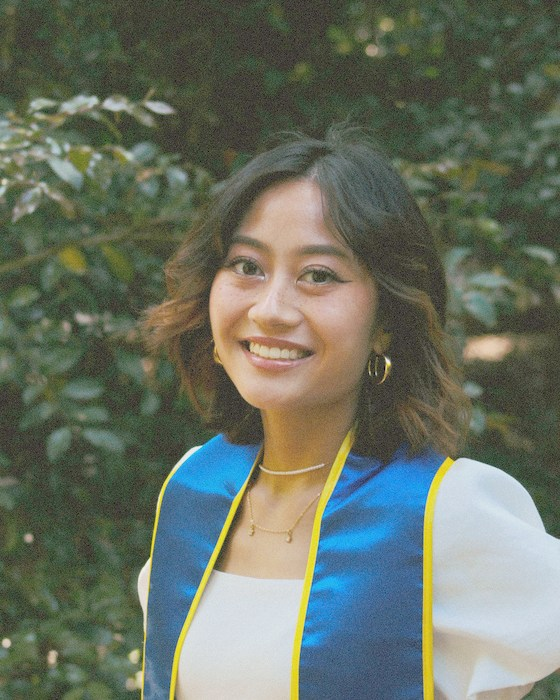
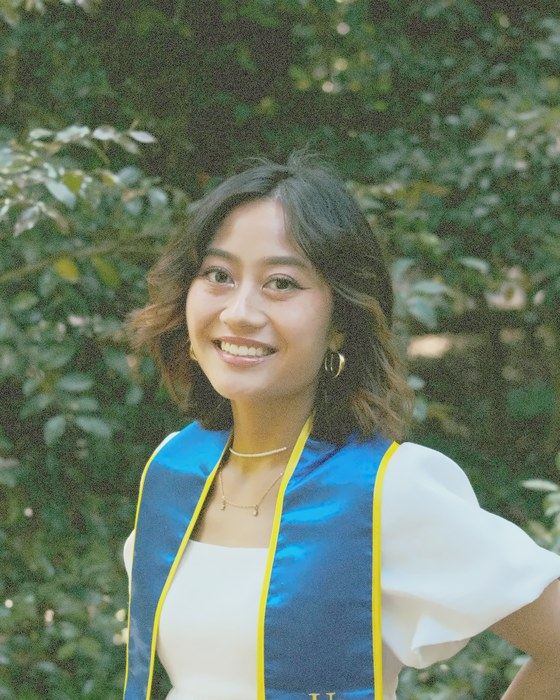
kill /studil/, add /team/

diff --git a/public/styles/site.css b/public/styles/site.css
@@ -561,37 +561,63 @@ a:hover { color: var(--firewood); }
 }
 
 /* --- Footer ---------------------------------------------------------------- */
-.site-footer { background: var(--ink); color: var(--warm-peach); padding-block: var(--s-8) var(--s-6); }
-.site-footer__grid { display: grid; gap: var(--s-7); grid-template-columns: repeat(auto-fit, minmax(min(100%, 15rem), 1fr)); }
-.site-footer__logo img { width: 160px; height: auto; }
-.site-footer h2 { font-family: var(--font-label); font-size: var(--fs-label); font-weight: 700; text-transform: uppercase; letter-spacing: 0.16em; color: var(--golden-ember); margin-bottom: var(--s-3); }
-.site-footer ul { list-style: none; padding: 0; }
-.site-footer li + li { margin-top: var(--s-2); }
-.site-footer a:not(.btn) { color: var(--warm-peach); text-decoration: none; }
-.site-footer a:not(.btn):hover { color: var(--golden-ember); text-decoration: underline; }
+/* --- Footer -----------------------------------------------------------------
+   One type size for every link, one colour, one accent (the small gold column
+   headings), and a single call to action. The previous version stacked three
+   full-width buttons and mixed four text sizes, which read as noise at tablet
+   width and worse on a phone.
+   -------------------------------------------------------------------------- */
+.site-footer { background: var(--ink); color: var(--peach-dim); padding-block: var(--s-8) var(--s-6); }
 
-/* Three written calls to action in priority order, then everything else as
-   icons. Replaces a column of nine identical text links. */
-.follow-ctas { display: grid; gap: var(--s-3); }
-.follow-ctas .btn { width: 100%; }
-.social-icons { display: flex; flex-wrap: wrap; gap: var(--s-2); margin-top: var(--s-5); list-style: none; padding: 0; }
-.social-icons li + li { margin-top: 0; }
-.social-icons a {
-  display: grid; place-items: center; width: 44px; height: 44px;
-  border-radius: var(--r-pill); border: 1px solid var(--ash-hi);
-  color: var(--warm-peach);
-  transition: background-color var(--dur) var(--ease), color var(--dur) var(--ease), border-color var(--dur) var(--ease);
+.site-footer__grid {
+  display: grid; gap: var(--s-7) var(--s-6);
+  grid-template-columns: 1.4fr 1fr 1fr 1fr;
+  align-items: start;
 }
-.social-icons a:hover { background: var(--warm-peach); color: var(--ink); border-color: var(--warm-peach); text-decoration: none; }
-.social-icons svg { width: 20px; height: 20px; fill: currentColor; }
+.site-footer__logo img { width: 150px; height: auto; }
+.site-footer__tagline {
+  margin: var(--s-4) 0 var(--s-5);
+  font-size: var(--fs-small); color: var(--peach-dim); max-width: 24ch;
+}
+
+.site-footer h2 {
+  font-family: var(--font-label); font-size: var(--fs-label); font-weight: 700;
+  text-transform: uppercase; letter-spacing: 0.16em;
+  color: var(--golden-ember); margin-bottom: var(--s-3);
+}
+.site-footer ul { list-style: none; padding: 0; margin: 0; }
+.site-footer li + li { margin-top: var(--s-2); }
+.site-footer a:not(.btn) {
+  font-size: var(--fs-small); color: var(--warm-peach); text-decoration: none;
+}
+.site-footer a:not(.btn):hover { color: var(--golden-ember); text-decoration: underline; }
 
 .site-footer__base {
   margin-top: var(--s-7); padding-top: var(--s-5); border-top: 1px solid var(--ash-hi);
-  display: flex; flex-wrap: wrap; gap: var(--s-3) var(--s-5);
+  display: flex; flex-wrap: wrap; gap: var(--s-2) var(--s-5);
   justify-content: space-between; align-items: baseline;
   font-size: var(--fs-small); color: var(--peach-dim);
 }
 .site-footer__base p { margin: 0; }
+
+/* Tablet: the four columns become two, with the brand block across the top. */
+@media (max-width: 900px) {
+  .site-footer__grid { grid-template-columns: repeat(2, minmax(0, 1fr)); gap: var(--s-6) var(--s-5); }
+  .site-footer__grid > :first-child,
+  .site-footer__follow { grid-column: 1 / -1; }
+  .site-footer__tagline { max-width: 34ch; }
+  /* Seven platforms stacked is a ladder down an empty column. Run them inline. */
+  .site-footer__follow ul { display: flex; flex-wrap: wrap; gap: var(--s-2) var(--s-4); }
+  .site-footer__follow li + li { margin-top: 0; }
+}
+
+/* Phone: one column, and the social list runs inline so it doesn't become a
+   twelve-row ladder. */
+@media (max-width: 560px) {
+  .site-footer { padding-block: var(--s-7) var(--s-5); }
+  .site-footer__grid { grid-template-columns: 1fr; gap: var(--s-6); }
+  .site-footer__base { justify-content: flex-start; }
+}
 
 /* --- Utilities ------------------------------------------------------------- */
 .visually-hidden {
